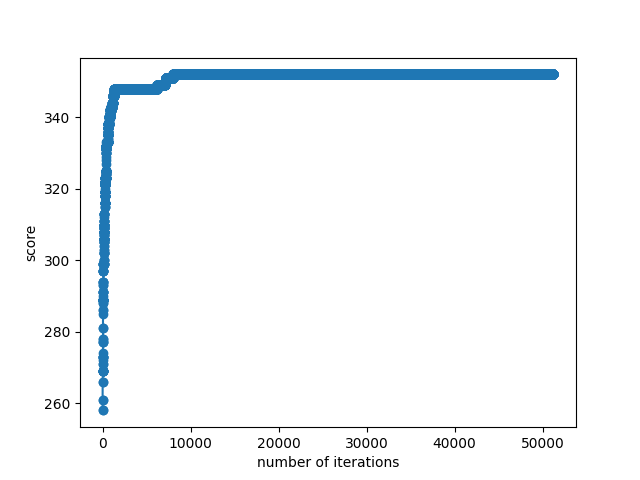
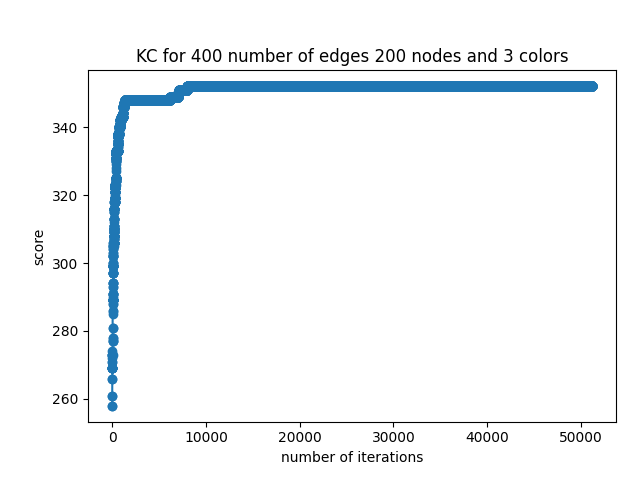
first

Changed region(s): [[0.0312, 0.0938, 0.9375, 0.9688], [0.125, 0.125, 0.1562, 0.1562]]

diff --git a/HW2.py b/HW2.py
@@ -44,25 +44,25 @@ def plotter(x,y,label,name,x_label="number of iterations"):
 
 def plotter22(x1,y1,x2,y2,x3,y3,x4,y4,name,label_suf):
     plt.subplot(2,2,1)
-    plt.plot(x1, y1 , "-o", label="RHC for"+label_suf)
+    plt.plot(x1, y1 , "-o", label="RHC for "+label_suf)
     plt.xlabel("number of iterations")
     plt.ylabel("score")
     plt.title("RHC for"+label_suf)
 
     plt.subplot(2, 2, 2)
-    plt.plot(x2, y2, "-o", label="SA for" + label_suf)
+    plt.plot(x2, y2, "-o", label="SA for " + label_suf)
     plt.xlabel("number of iterations")
     plt.ylabel("score")
     plt.title("SA for" + label_suf)
 
     plt.subplot(2, 2, 3)
-    plt.plot(x3, y3, "-o", label="GA for" + label_suf)
+    plt.plot(x3, y3, "-o", label="GA for " + label_suf)
     plt.xlabel("total population")
     plt.ylabel("score")
     plt.title("GA for" + label_suf)
 
     plt.subplot(2, 2, 4)
-    plt.plot(x4, y4, "-o", label="MIMIC for" + label_suf)
+    plt.plot(x4, y4, "-o", label="MIMIC for " + label_suf)
     plt.xlabel("total population")
     plt.ylabel("score")
     plt.title("MIMIC for" + label_suf)
@@ -342,7 +342,7 @@ if 1:
     KC_RHC = mlrose_hiive.random_hill_climb(problem_set, max_attempts=5000, max_iters=50000, restarts=0,init_state=None, curve=True, random_state=812)
     dt=time.time()-t0
     print("KC RHC for ", num_edges, " run for ", dt, " seconds ", "with the best score of ", KC_RHC[1])
-    plotter(KC_RHC[2][:, 1], KC_RHC[2][:, 0], "KC for " str(num_edges)+" number of edges "+str(num_towns)+" nodes and "+str(num_colors)+" colors", "KC_RHC.png")
+    plotter(KC_RHC[2][:, 1], KC_RHC[2][:, 0],"KC for "+ str(num_edges)+" number of edges "+str(num_towns)+" nodes and "+str(num_colors)+" colors", "KC_RHC.png")
     print("---------------------")
 
 if 1:
@@ -388,7 +388,7 @@ if 1:
     dt_class=time.time()-t0
 
     t0=time.time()
-    #Classifier_RHC.fit(fruits_train_x, pd.get_dummies(fruits_train_y))
+    Classifier_RHC.fit(fruits_train_x, pd.get_dummies(fruits_train_y))
     dt_class_RHC=time.time()-t0
 
     t0=time.time()
@@ -417,9 +417,9 @@ if 1:
 
 Classifier=MLPClassifier(tol=0.005,hidden_layer_sizes=[25,25],activation='relu',learning_rate="constant",learning_rate_init=0.01, random_state=812)
 Classifier_RHC = mlrose_hiive.NeuralNetwork(hidden_nodes = [25,25], activation = 'relu', algorithm ="random_hill_climb",
-                                 learning_rate = 0.02, random_state = 812,pop_size=200,mutation_prob=0.02,max_iters=10000)
+                                 learning_rate = 0.2, random_state = 812,pop_size=200,mutation_prob=0.02,max_iters=10000)
 Classifier_SA = mlrose_hiive.NeuralNetwork(hidden_nodes = [25,25], activation = 'relu', algorithm ="simulated_annealing", schedule=mlrose_hiive.GeomDecay(init_temp=1, decay=0.99, min_temp=0.001),
-                                 learning_rate = 0.02, random_state = 812,pop_size=200,mutation_prob=0.02,max_iters=10000)
+                                 learning_rate = 0.2, random_state = 812,pop_size=200,mutation_prob=0.02,max_iters=10000)
 Classifier_GA = mlrose_hiive.NeuralNetwork(hidden_nodes = [25,25], activation = 'relu', algorithm = 'genetic_alg',
                                  learning_rate = 0.02, random_state = 812,pop_size=50,mutation_prob=0.01,max_iters=500)
 
